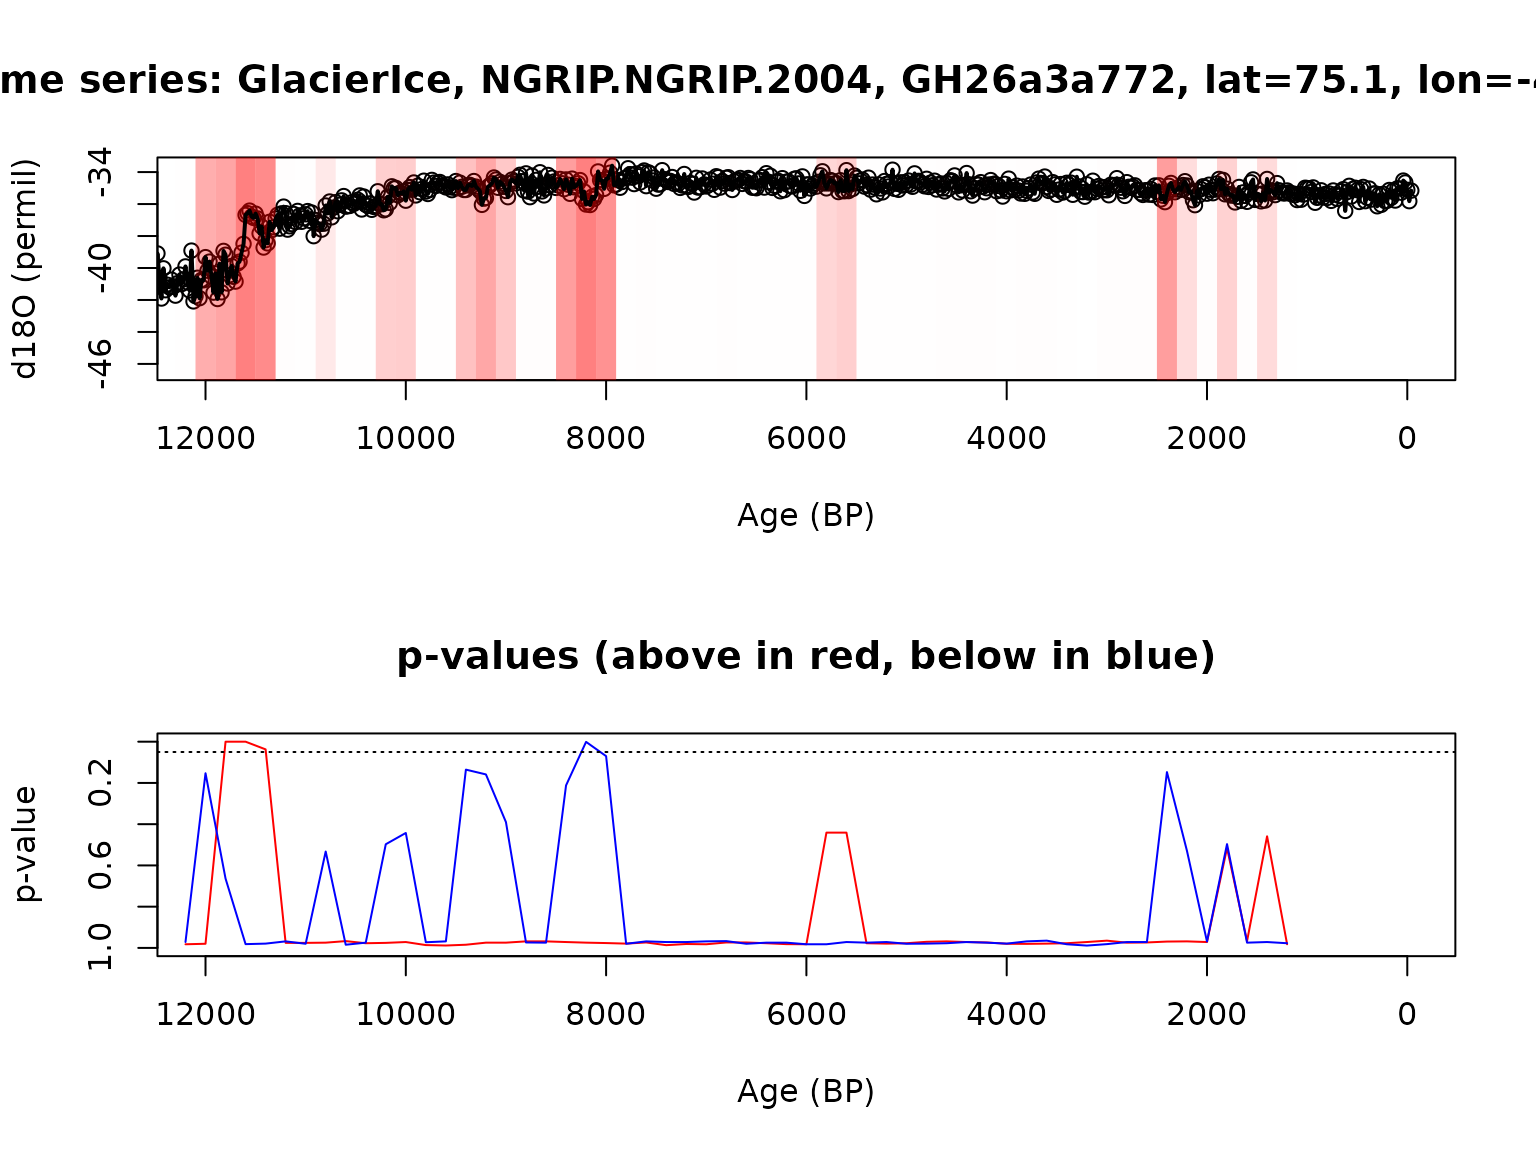
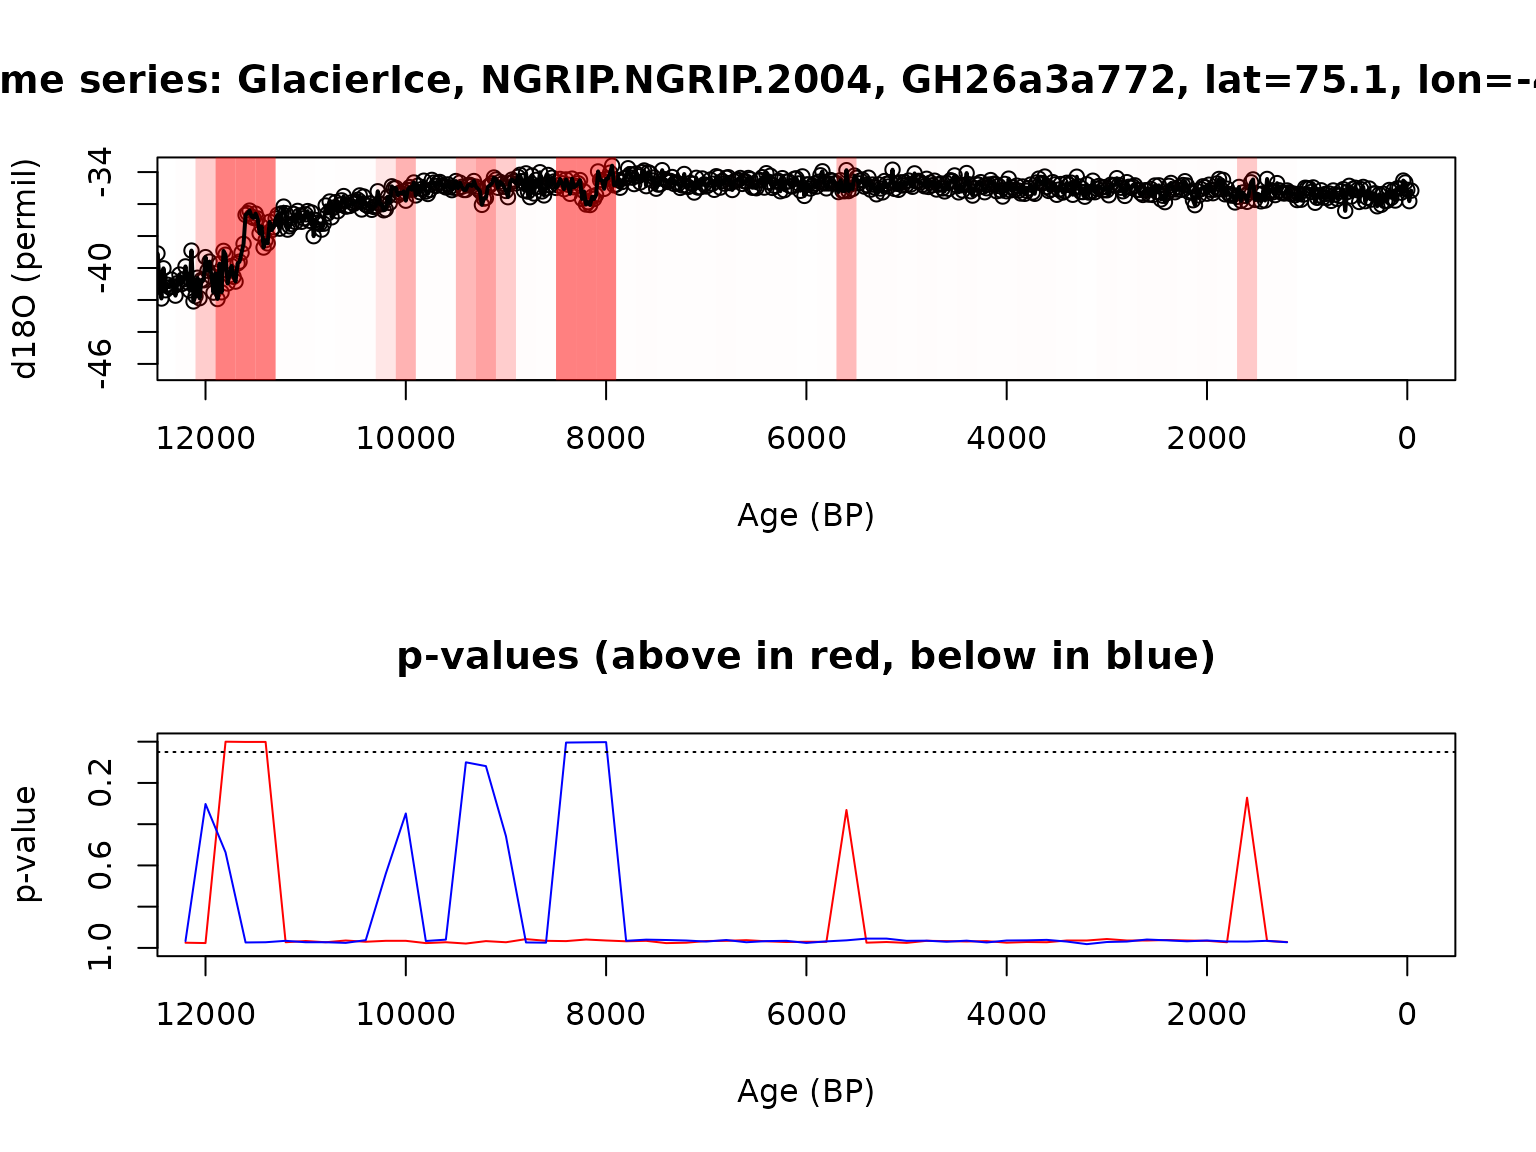
Deploying to gh-pages from @ LinkedEarth/actR@72121aa8c64eac51193eb0d63c62ebdd000183b5 🚀

diff --git a/articles/makeExcursion.html b/articles/makeExcursion.html
@@ -194,7 +194,7 @@ results</p>
 <pre><code><span><span class="co">## <span style="font-weight: bold;">Synthetic excursion - Excursion test: Excursion test results</span></span></span>
 <span><span class="co"><span style="font-weight: bold;">## </span><span style="color: #555555;">Searched for </span><span style="color: #555555; font-weight: bold;">positive OR negative</span><span style="color: #555555;"> excursions in a </span><span style="color: #555555; font-weight: bold;">516.898311400518</span><span style="color: #555555;"> year window around </span><span style="color: #555555; font-weight: bold;">4200</span><span style="color: #555555;"> yr BP, with reference windows of </span><span style="color: #555555; font-weight: bold;">488.62872365251</span><span style="color: #555555;"> years on either side.</span></span></span>
 <span><span class="co"><span style="color: #555555;">## </span></span></span>
-<span><span class="co">## <span style="font-weight: bold;">Overall result: Empirical p-value = </span><span style="color: #BB0000; font-weight: bold;">0.0533285520357796</span></span></span>
+<span><span class="co">## <span style="font-weight: bold;">Overall result: Empirical p-value = </span><span style="color: #BB0000; font-weight: bold;">0.0594609103706848</span></span></span>
 <span><span class="co"><span style="font-weight: bold;">## </span>Time uncertainty considered? <span style="color: #00BB00;">TRUE</span></span></span>
 <span><span class="co">## Paleo uncertainty considered? <span style="color: #00BB00;">TRUE</span></span></span>
 <span><span class="co">## Error propagation ensemble members = 10</span></span>
@@ -292,6 +292,10 @@ uncertainty.</p>
 <span><span class="co">## Testing null hypothesis with 50 simulations, each with 50 ensemble members. <span style="color: #00BB00;">■■■</span>…</span></span>
 <span><span class="co">## Testing null hypothesis with 50 simulations, each with 50 ensemble members. <span style="color: #00BB00;">■■■</span>…</span></span>
 <span><span class="co">## Testing null hypothesis with 50 simulations, each with 50 ensemble members. <span style="color: #00BB00;">■■■</span>…</span></span>
+<span><span class="co">## Testing null hypothesis with 50 simulations, each with 50 ensemble members. <span style="color: #00BB00;">■■■</span>…</span></span>
+<span><span class="co">## Testing null hypothesis with 50 simulations, each with 50 ensemble members. <span style="color: #00BB00;">■■■</span>…</span></span>
+<span><span class="co">## Testing null hypothesis with 50 simulations, each with 50 ensemble members. <span style="color: #00BB00;">■■■</span>…</span></span>
+<span><span class="co">## Testing null hypothesis with 50 simulations, each with 50 ensemble members. <span style="color: #00BB00;">■■■</span>…</span></span>
 <span><span class="co">## Testing null hypothesis with 50 simulations, each with 50 ensemble members. <span style="color: #00BB00;">■■■</span>…</span></span></code></pre>
 <p>Now let’s look at the results</p>
 <div class="sourceCode" id="cb11"><pre class="downlit sourceCode r">
@@ -299,7 +303,7 @@ uncertainty.</p>
 <pre><code><span><span class="co">## <span style="font-weight: bold;">Synthetic excursion - Excursion test: Excursion test results</span></span></span>
 <span><span class="co"><span style="font-weight: bold;">## </span><span style="color: #555555;">Searched for </span><span style="color: #555555; font-weight: bold;">positive</span><span style="color: #555555;"> excursions in a </span><span style="color: #555555; font-weight: bold;">400</span><span style="color: #555555;"> year window around </span><span style="color: #555555; font-weight: bold;">4200</span><span style="color: #555555;"> yr BP, with reference windows of </span><span style="color: #555555; font-weight: bold;">400</span><span style="color: #555555;"> years on either side.</span></span></span>
 <span><span class="co"><span style="color: #555555;">## </span></span></span>
-<span><span class="co">## <span style="font-weight: bold;">Overall result: Empirical p-value = </span><span style="color: #00BB00; font-weight: bold;">0.00478045292955143</span></span></span>
+<span><span class="co">## <span style="font-weight: bold;">Overall result: Empirical p-value = </span><span style="color: #00BB00; font-weight: bold;">0.0218638408411369</span></span></span>
 <span><span class="co"><span style="font-weight: bold;">## </span>Time uncertainty considered? <span style="color: #00BB00;">TRUE</span></span></span>
 <span><span class="co">## Paleo uncertainty considered? <span style="color: #00BB00;">TRUE</span></span></span>
 <span><span class="co">## Error propagation ensemble members = 50</span></span>

diff --git a/articles/detectShift.html b/articles/detectShift.html
@@ -132,6 +132,8 @@ null.hypothesis.n]. * specifies a minimum segment length of 3000y</p>
 <span><span class="co">#&gt; Testing null hypothesis with 50 simulations, each with 50 ensemble members. <span style="color: #00BB00;">■■■</span>…</span></span>
 <span><span class="co">#&gt; Testing null hypothesis with 50 simulations, each with 50 ensemble members. <span style="color: #00BB00;">■■■</span>…</span></span>
 <span><span class="co">#&gt; Testing null hypothesis with 50 simulations, each with 50 ensemble members. <span style="color: #00BB00;">■■■</span>…</span></span>
+<span><span class="co">#&gt; Testing null hypothesis with 50 simulations, each with 50 ensemble members. <span style="color: #00BB00;">■■■</span>…</span></span>
+<span><span class="co">#&gt; Testing null hypothesis with 50 simulations, each with 50 ensemble members. <span style="color: #00BB00;">■■■</span>…</span></span>
 <span><span class="co">#&gt; Testing null hypothesis with 50 simulations, each with 50 ensemble members. <span style="color: #00BB00;">■■■</span>…</span></span></code></pre></div>
 <p>This lines generates a textual summary of the output:</p>
 <div class="sourceCode" id="cb3"><pre class="downlit sourceCode r">
@@ -185,6 +187,7 @@ attempt to detect changes in the mean.</p>
 <span><span class="co">#&gt; Testing null hypothesis with 50 simulations, each with 50 ensemble members. <span style="color: #00BB00;">■■■</span>…</span></span>
 <span><span class="co">#&gt; Testing null hypothesis with 50 simulations, each with 50 ensemble members. <span style="color: #00BB00;">■■■</span>…</span></span>
 <span><span class="co">#&gt; Testing null hypothesis with 50 simulations, each with 50 ensemble members. <span style="color: #00BB00;">■■■</span>…</span></span>
+<span><span class="co">#&gt; Testing null hypothesis with 50 simulations, each with 50 ensemble members. <span style="color: #00BB00;">■■■</span>…</span></span>
 <span><span class="co">#&gt; Testing null hypothesis with 50 simulations, each with 50 ensemble members. <span style="color: #00BB00;">■■■</span>…</span></span></code></pre></div>
 <div class="sourceCode" id="cb6"><pre class="downlit sourceCode r">
 <code class="sourceCode R"><span><span class="va">gbmPlot</span> <span class="op">&lt;-</span> <span class="fu"><a href="https://rdrr.io/r/graphics/plot.default.html" class="external-link">plot</a></span><span class="op">(</span><span class="va">msGb</span><span class="op">)</span></span></code></pre></div>
@@ -208,6 +211,7 @@ package).</p>
 <span>                    surrogate.method <span class="op">=</span> <span class="st">"shuffle"</span>,</span>
 <span>                    n.ens <span class="op">=</span> <span class="fl">50</span><span class="op">)</span></span>
 <span><span class="co">#&gt; Selected trsgi</span></span>
+<span><span class="co">#&gt; Testing null hypothesis with 50 simulations, each with 50 ensemble members. <span style="color: #00BB00;">■■■</span>…</span></span>
 <span><span class="co">#&gt; Testing null hypothesis with 50 simulations, each with 50 ensemble members. <span style="color: #00BB00;">■■■</span>…</span></span>
 <span><span class="co">#&gt; Testing null hypothesis with 50 simulations, each with 50 ensemble members. <span style="color: #00BB00;">■■■</span>…</span></span>
 <span><span class="co">#&gt; Testing null hypothesis with 50 simulations, each with 50 ensemble members. <span style="color: #00BB00;">■■■</span>…</span></span>

diff --git a/articles/detectExcursion.html b/articles/detectExcursion.html
@@ -195,6 +195,11 @@ null hypothesis simulation 50 times.</p>
 <span>                          paleo.uncertainty <span class="op">=</span> <span class="fl">0.2</span>,</span>
 <span>                          paleo.ar1 <span class="op">=</span> <span class="fl">0.8</span><span class="op">)</span></span>
 <span><span class="co">#&gt; Selected d18O</span></span>
+<span><span class="co">#&gt; Testing null hypothesis with 50 simulations, each with 50 ensemble members. <span style="color: #00BB00;">■■ </span>…</span></span>
+<span><span class="co">#&gt; Testing null hypothesis with 50 simulations, each with 50 ensemble members. <span style="color: #00BB00;">■■■</span>…</span></span>
+<span><span class="co">#&gt; Testing null hypothesis with 50 simulations, each with 50 ensemble members. <span style="color: #00BB00;">■■■</span>…</span></span>
+<span><span class="co">#&gt; Testing null hypothesis with 50 simulations, each with 50 ensemble members. <span style="color: #00BB00;">■■■</span>…</span></span>
+<span><span class="co">#&gt; Testing null hypothesis with 50 simulations, each with 50 ensemble members. <span style="color: #00BB00;">■■■</span>…</span></span>
 <span><span class="co">#&gt; Testing null hypothesis with 50 simulations, each with 50 ensemble members. <span style="color: #00BB00;">■■■</span>…</span></span>
 <span><span class="co">#&gt; Testing null hypothesis with 50 simulations, each with 50 ensemble members. <span style="color: #00BB00;">■■■</span>…</span></span>
 <span><span class="co">#&gt; Testing null hypothesis with 50 simulations, each with 50 ensemble members. <span style="color: #00BB00;">■■■</span>…</span></span>
@@ -270,6 +275,11 @@ through our robust null hypothesis testing.</p>
 <span>                          paleo.uncertainty <span class="op">=</span> <span class="fl">0.2</span><span class="op">)</span></span>
 <span><span class="co">#&gt; Selected d18O</span></span>
 <span><span class="co">#&gt; Testing null hypothesis with 50 simulations, each with 50 ensemble members. <span style="color: #00BB00;">■■ </span>…</span></span>
+<span><span class="co">#&gt; Testing null hypothesis with 50 simulations, each with 50 ensemble members. <span style="color: #00BB00;">■■■</span>…</span></span>
+<span><span class="co">#&gt; Testing null hypothesis with 50 simulations, each with 50 ensemble members. <span style="color: #00BB00;">■■■</span>…</span></span>
+<span><span class="co">#&gt; Testing null hypothesis with 50 simulations, each with 50 ensemble members. <span style="color: #00BB00;">■■■</span>…</span></span>
+<span><span class="co">#&gt; Testing null hypothesis with 50 simulations, each with 50 ensemble members. <span style="color: #00BB00;">■■■</span>…</span></span>
+<span><span class="co">#&gt; Testing null hypothesis with 50 simulations, each with 50 ensemble members. <span style="color: #00BB00;">■■■</span>…</span></span>
 <span><span class="co">#&gt; Testing null hypothesis with 50 simulations, each with 50 ensemble members. <span style="color: #00BB00;">■■■</span>…</span></span>
 <span><span class="co">#&gt; Testing null hypothesis with 50 simulations, each with 50 ensemble members. <span style="color: #00BB00;">■■■</span>…</span></span>
 <span><span class="co">#&gt; Testing null hypothesis with 50 simulations, each with 50 ensemble members. <span style="color: #00BB00;">■■■</span>…</span></span>

diff --git a/articles/makeShift.html b/articles/makeShift.html
@@ -127,6 +127,8 @@ time 20</p>
 <span>                     n.ens <span class="op">=</span> <span class="fl">50</span><span class="op">)</span></span>
 <span><span class="co">#&gt; Testing null hypothesis with 50 simulations, each with 50 ensemble members. <span style="color: #00BB00;">■■■</span>…</span></span>
 <span><span class="co">#&gt; Testing null hypothesis with 50 simulations, each with 50 ensemble members. <span style="color: #00BB00;">■■■</span>…</span></span>
+<span><span class="co">#&gt; Testing null hypothesis with 50 simulations, each with 50 ensemble members. <span style="color: #00BB00;">■■■</span>…</span></span>
+<span><span class="co">#&gt; Testing null hypothesis with 50 simulations, each with 50 ensemble members. <span style="color: #00BB00;">■■■</span>…</span></span>
 <span><span class="co">#&gt; Testing null hypothesis with 50 simulations, each with 50 ensemble members. <span style="color: #00BB00;">■■■</span>…</span></span></code></pre></div>
 <p>###Plot shift</p>
 <p>Let’s plot the results</p>

diff --git a/reference/kdePval.html b/reference/kdePval.html
@@ -69,7 +69,7 @@
     </div>
 
     <div id="ref-usage">
-    <div class="sourceCode"><pre class="sourceCode r"><code><span><span class="fu">kdePval</span><span class="op">(</span><span class="va">nulls</span>, <span class="va">real</span>, h <span class="op">=</span> <span class="cn">NA</span><span class="op">)</span></span></code></pre></div>
+    <div class="sourceCode"><pre class="sourceCode r"><code><span><span class="fu">kdePval</span><span class="op">(</span><span class="va">nulls</span>, <span class="va">real</span>, h <span class="op">=</span> <span class="cn">NA</span>, xmin <span class="op">=</span> <span class="fl">0</span>, xmax <span class="op">=</span> <span class="fl">1</span><span class="op">)</span></span></code></pre></div>
     </div>
 
     <div id="arguments">
@@ -84,6 +84,14 @@
 
 <dt>h</dt>
 <dd><p>smoothing factor</p></dd>
+
+
+<dt>xmin</dt>
+<dd><p>minimum value for the distribution</p></dd>
+
+
+<dt>xmax</dt>
+<dd><p>maximum value for the distribution</p></dd>
 
 </dl></div>
     <div id="value">

diff --git a/reference/detectExcursionSlidingWindow.html b/reference/detectExcursionSlidingWindow.html
@@ -132,11 +132,7 @@
 
 
 <dt>...</dt>
-<dd><p>arguments to pass to pass to changeFun</p></dd>
-
-
-<dt>seed</dt>
-<dd><p>Set a seed for reproducibility. By default it will use current time meaning it will not be reproducible.</p></dd>
+<dd><p>pass additional arguments to detectExcursion()</p></dd>
 
 </dl></div>
     <div id="value">

diff --git a/reference/plotExcursionSliding.html b/reference/plotExcursionSliding.html
@@ -77,6 +77,10 @@
     <dl><dt>x</dt>
 <dd><p>sliding excursion output</p></dd>
 
+
+<dt>xlim</dt>
+<dd><p>limits on the plot</p></dd>
+
 </dl></div>
     <div id="value">
     <h2>Value</h2>
